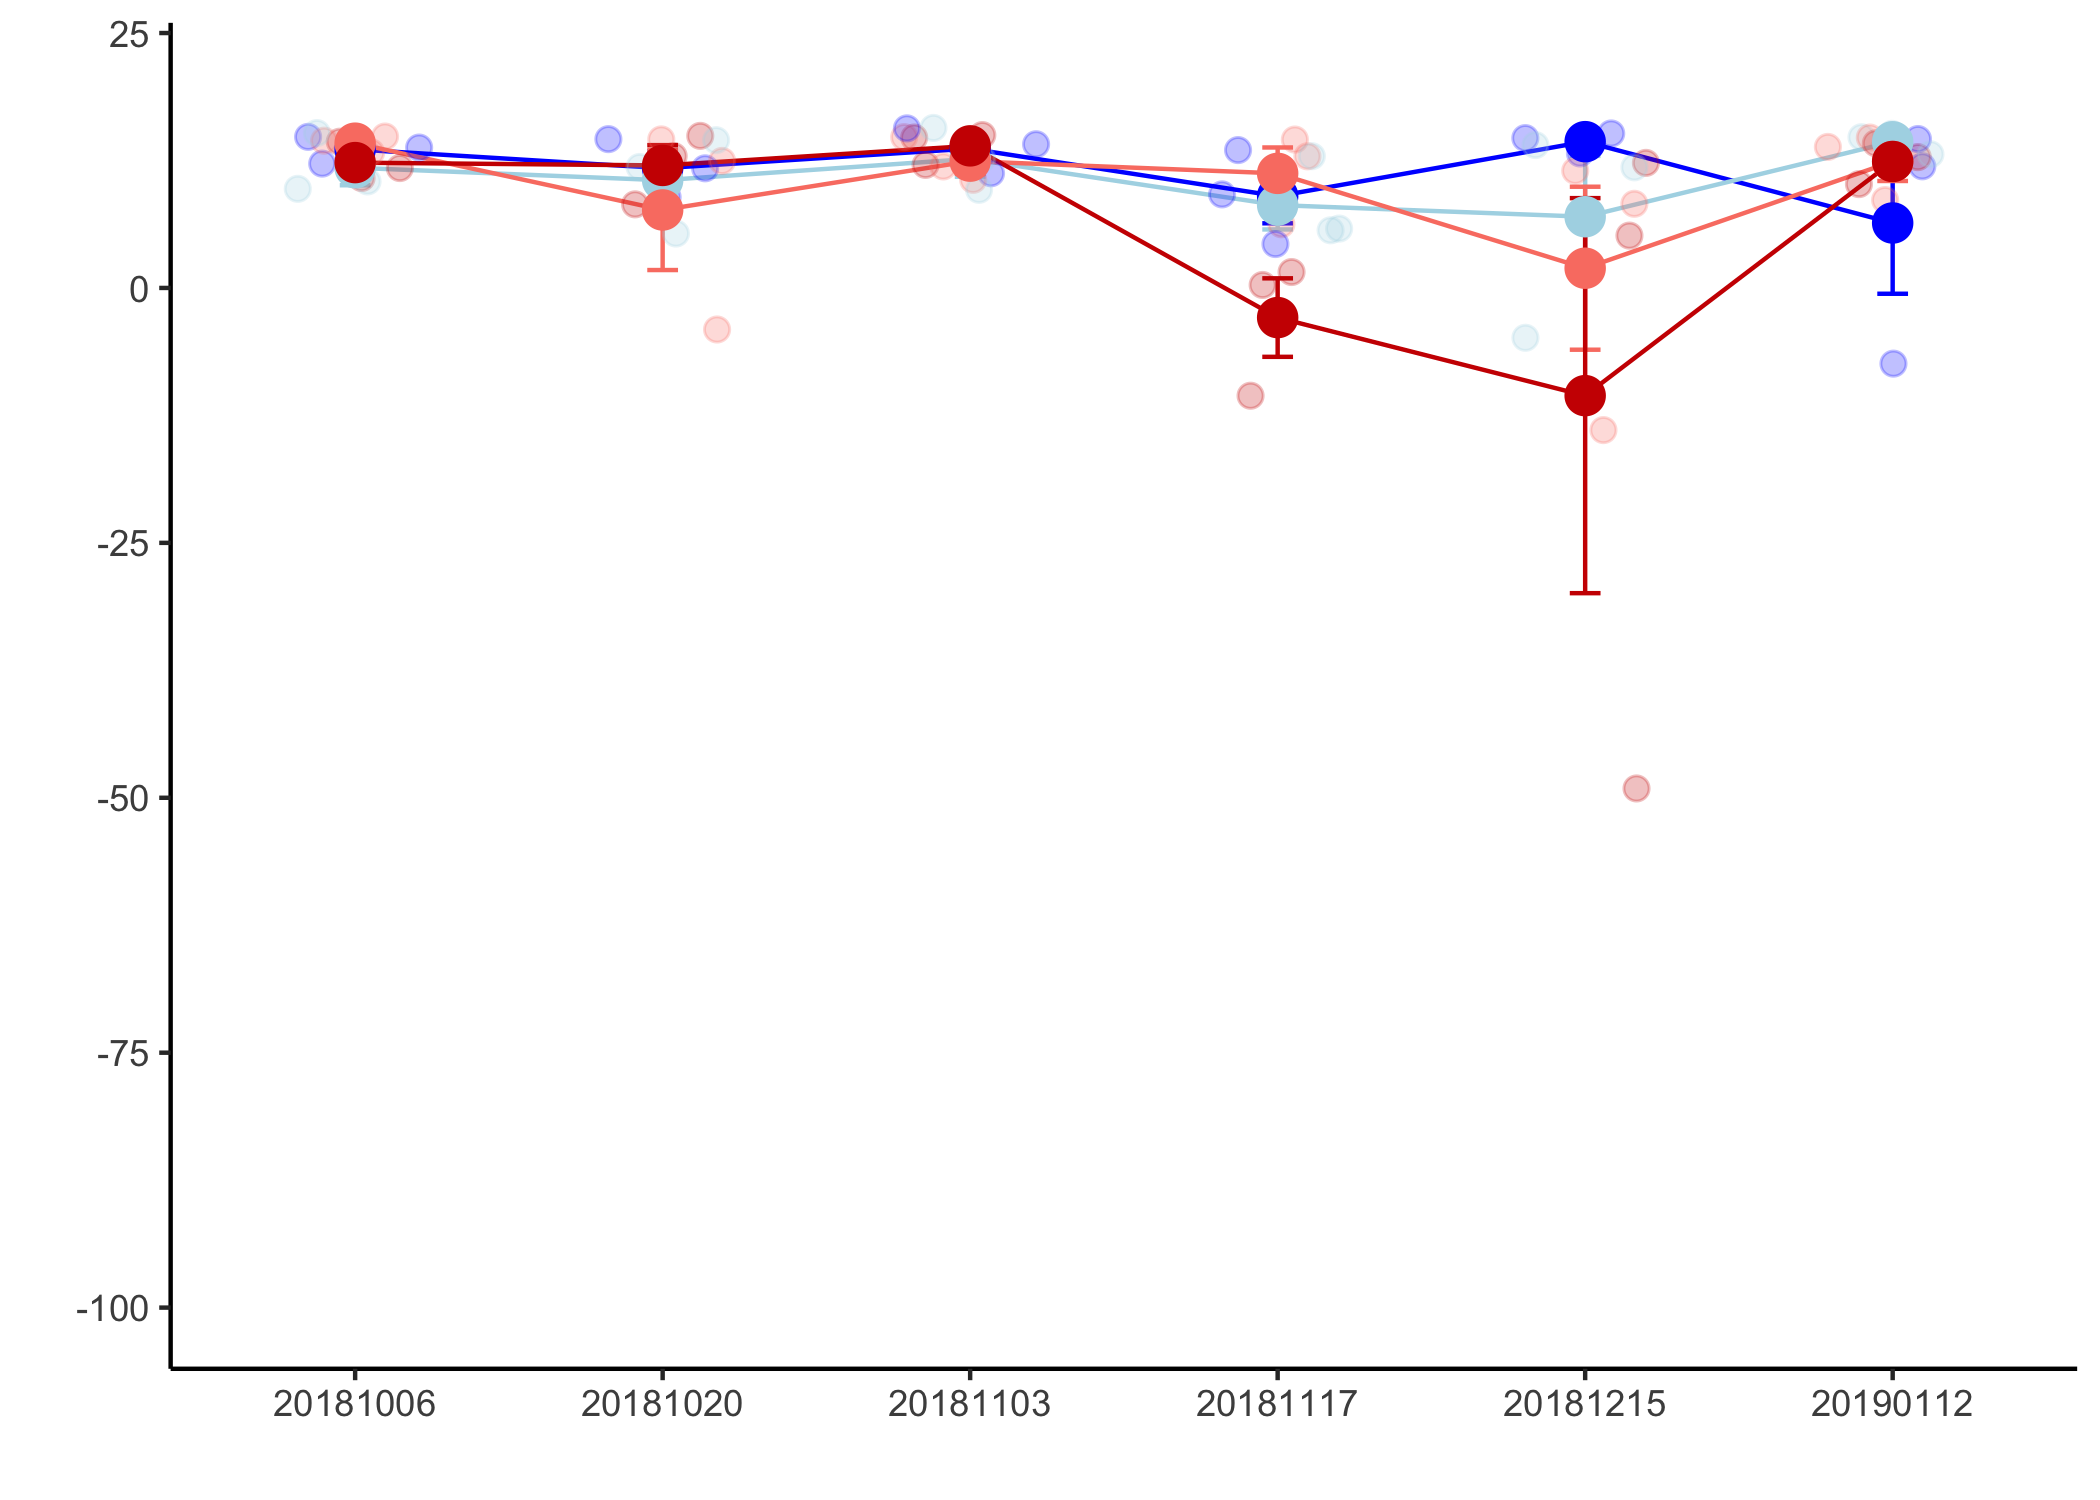
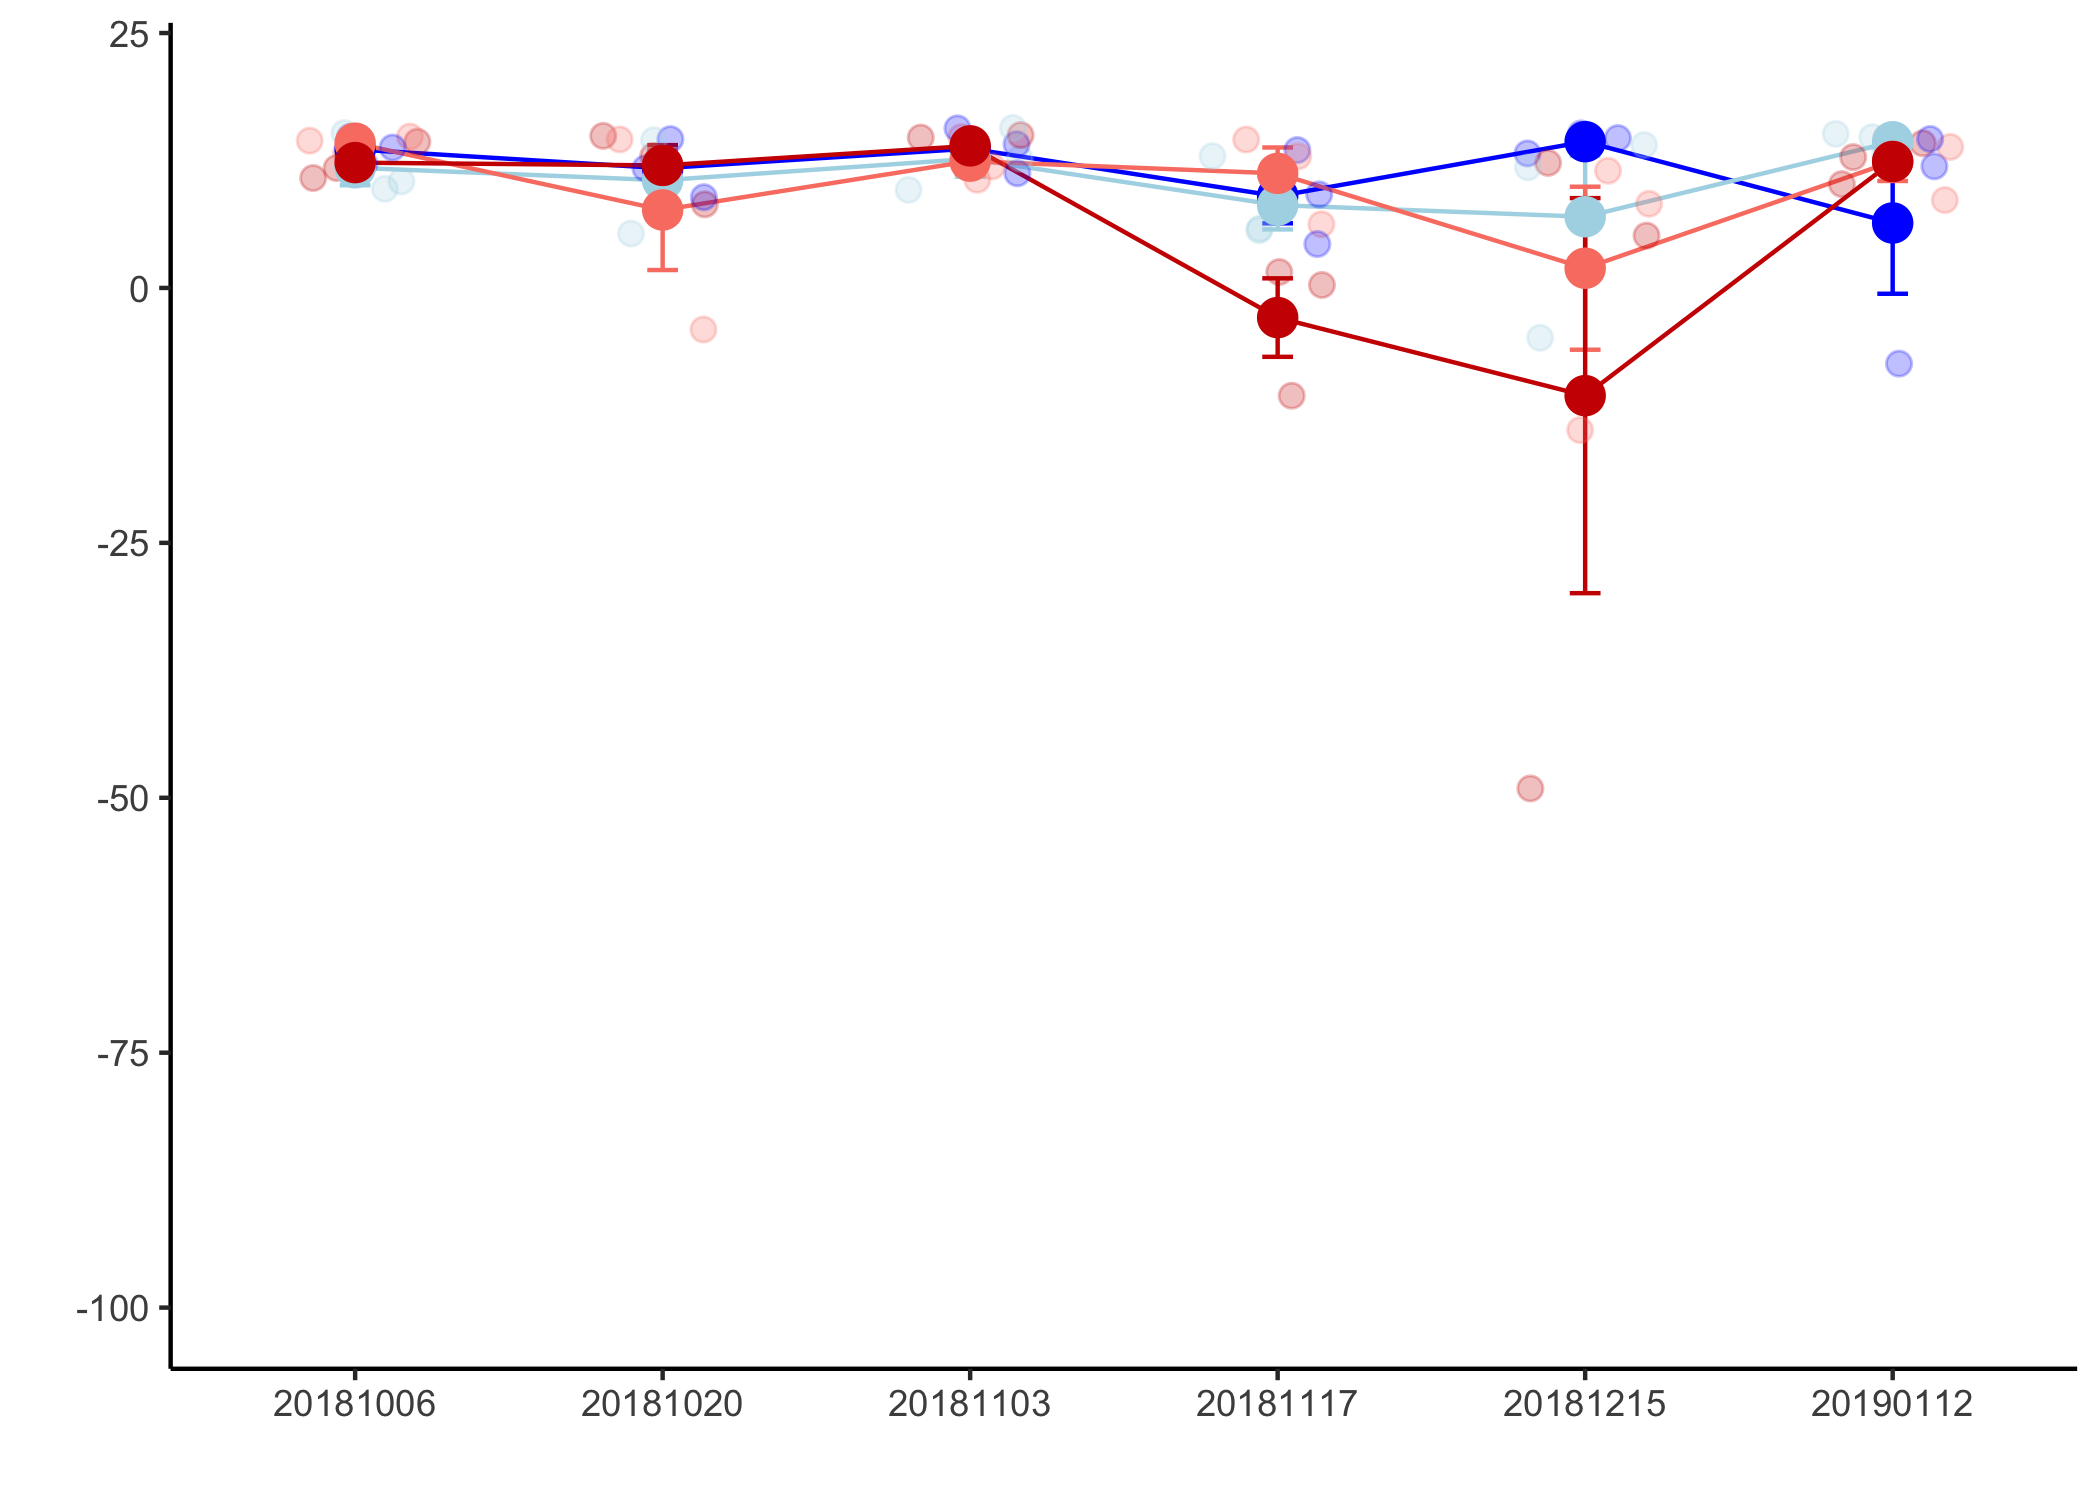
color score output as markdown file

diff --git a/scripts/Colorscore.md b/scripts/Colorscore.md
@@ -1,0 +1,132 @@
+Color Score
+================
+Author: Emma Strand; <emma_strand@uri.edu>
+
+## Load libraries
+
+``` r
+library(plyr)
+library(dplyr)
+```
+
+    ## 
+    ## Attaching package: 'dplyr'
+
+    ## The following objects are masked from 'package:plyr':
+    ## 
+    ##     arrange, count, desc, failwith, id, mutate, rename, summarise,
+    ##     summarize
+
+    ## The following objects are masked from 'package:stats':
+    ## 
+    ##     filter, lag
+
+    ## The following objects are masked from 'package:base':
+    ## 
+    ##     intersect, setdiff, setequal, union
+
+``` r
+library(tidyverse)
+```
+
+    ## ── Attaching packages ─────────────────────────────────────── tidyverse 1.3.1 ──
+
+    ## ✔ ggplot2 3.3.6     ✔ purrr   0.3.4
+    ## ✔ tibble  3.1.8     ✔ stringr 1.4.0
+    ## ✔ tidyr   1.2.0     ✔ forcats 0.5.1
+    ## ✔ readr   2.1.2
+
+    ## ── Conflicts ────────────────────────────────────────── tidyverse_conflicts() ──
+    ## ✖ dplyr::arrange()   masks plyr::arrange()
+    ## ✖ purrr::compact()   masks plyr::compact()
+    ## ✖ dplyr::count()     masks plyr::count()
+    ## ✖ dplyr::failwith()  masks plyr::failwith()
+    ## ✖ dplyr::filter()    masks stats::filter()
+    ## ✖ dplyr::id()        masks plyr::id()
+    ## ✖ dplyr::lag()       masks stats::lag()
+    ## ✖ dplyr::mutate()    masks plyr::mutate()
+    ## ✖ dplyr::rename()    masks plyr::rename()
+    ## ✖ dplyr::summarise() masks plyr::summarise()
+    ## ✖ dplyr::summarize() masks plyr::summarize()
+
+``` r
+library(ggplot2)
+library(Rmisc)
+```
+
+    ## Loading required package: lattice
+
+## Read in datafiles
+
+``` r
+raw <- read.csv("data/Molecular_fragments_color.csv", colClasses=c("Plug_ID"="character", 
+                                                                               "Timepoint"="character",
+                                                                               "Sample_Date"="character",
+                                                                               "PhotoDate"="character")) %>%
+  rename(Date = Sample_Date) %>%
+  filter(!is.na(ColorScore))
+
+range(raw$ColorScore)
+```
+
+    ## [1] -94.71211  15.69366
+
+``` r
+stats <- summarySE(raw, measurevar = c("ColorScore"), groupvars = c("Species", "Date", "Treatment"))
+```
+
+## Plot
+
+``` r
+raw %>%
+  ggplot(., aes(x=Date, y=ColorScore, color=Treatment)) +
+  geom_point(alpha=0.4, size=1) +
+  theme_classic() + xlab("") + ylab("") +
+  scale_color_manual(values = c("blue", "lightblue", "salmon", "red3")) +
+  geom_point(data = stats, aes(x=Date, y=ColorScore), size=1.5) +
+  geom_errorbar(data = stats, aes(ymin=ColorScore-se, ymax=ColorScore+se), size=0.3, width=.1) +
+  geom_line(data=stats, aes(group = Treatment), size=0.3) +
+  facet_grid(~Species, scales = "free")
+```
+
+![](Colorscore_files/figure-gfm/unnamed-chunk-3-1.png)<!-- -->
+
+``` r
+mcap_raw <- raw %>% subset(Species == "Mcapitata")
+mcap_stats <- stats %>% subset(Species == "Mcapitata")
+pacuta_raw <- raw %>% subset(Species == "Pacuta")
+pacuta_stats <- stats %>% subset(Species == "Pacuta")
+
+mcap_plot <- mcap_raw %>%
+  ggplot(., aes(x=Date, y=ColorScore, color=Treatment)) +
+  theme_classic() + xlab("") + ylab("") +
+  theme(legend.position="none") +
+  scale_color_manual(values = c("blue", "lightblue", "salmon", "red3")) +
+  geom_errorbar(data = mcap_stats, aes(ymin=ColorScore-se, ymax=ColorScore+se), size=0.5, width=.1) +
+  geom_line(data=mcap_stats, aes(group = Treatment), size=0.5) +
+  geom_jitter(alpha=0.25, size=2.5, width = 0.22) + 
+  ylim(-100,20) +
+  geom_point(data = mcap_stats, aes(x=Date, y=ColorScore), size=4); mcap_plot
+```
+
+![](Colorscore_files/figure-gfm/unnamed-chunk-3-2.png)<!-- -->
+
+``` r
+pacuta_plot <- pacuta_raw %>%
+  ggplot(., aes(x=Date, y=ColorScore, color=Treatment)) +
+  theme_classic() + xlab("") + ylab("") +
+  theme(legend.position="none") +
+  ylim(-100,20) +
+  scale_color_manual(values = c("blue", "lightblue", "salmon", "red3")) +
+  geom_errorbar(data = pacuta_stats, aes(ymin=ColorScore-se, ymax=ColorScore+se), size=0.5, width=.1) +
+  geom_line(data=pacuta_stats, aes(group = Treatment), size=0.5) +
+  geom_jitter(alpha=0.25, size=2.5, width = 0.22) + 
+  geom_point(data = pacuta_stats, aes(x=Date, y=ColorScore), size=4); pacuta_plot
+```
+
+![](Colorscore_files/figure-gfm/unnamed-chunk-3-3.png)<!-- -->
+
+``` r
+ggsave(file="output/Color_Pacuta.png", pacuta_plot, width = 7, height = 5, units = c("in"))
+ggsave(file="output/Color_Mcap.png", mcap_plot, width = 7, height = 5, units = c("in"))
+```
